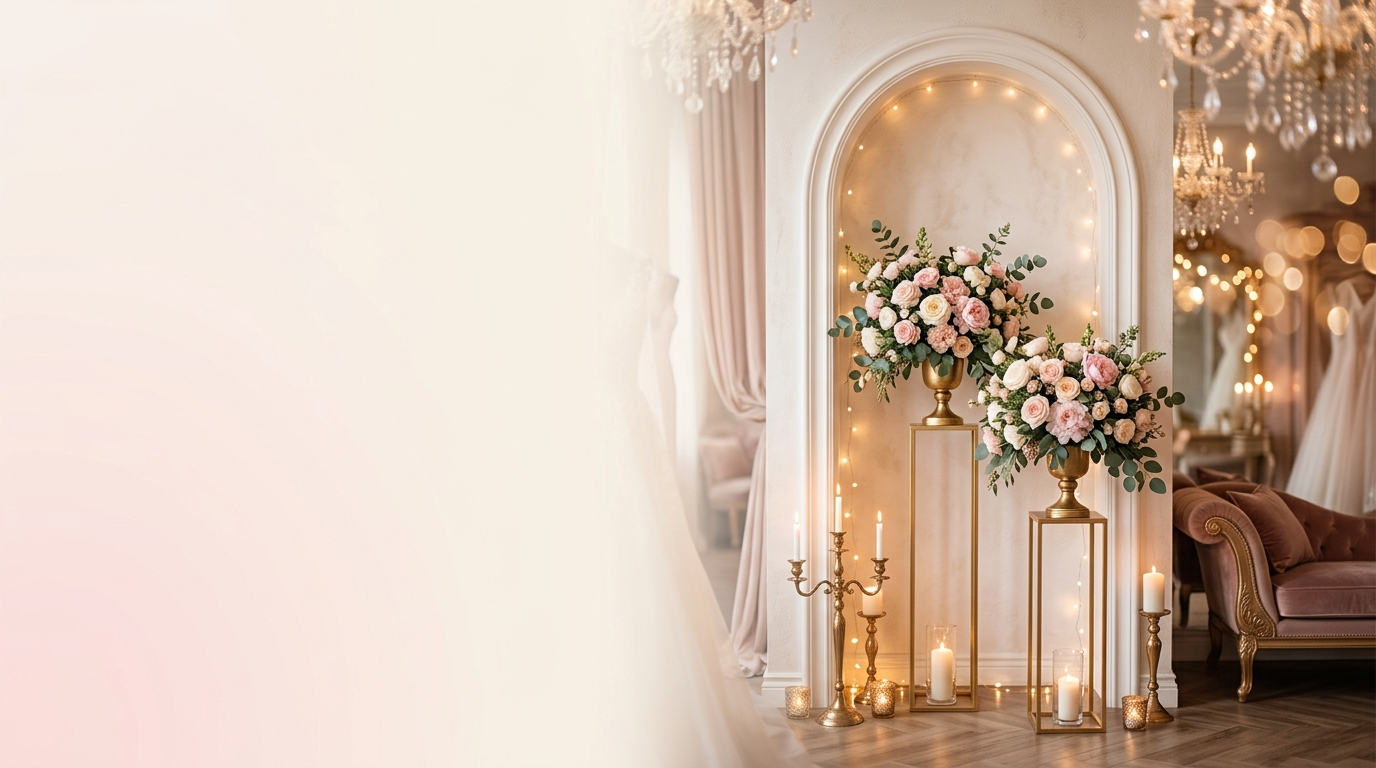
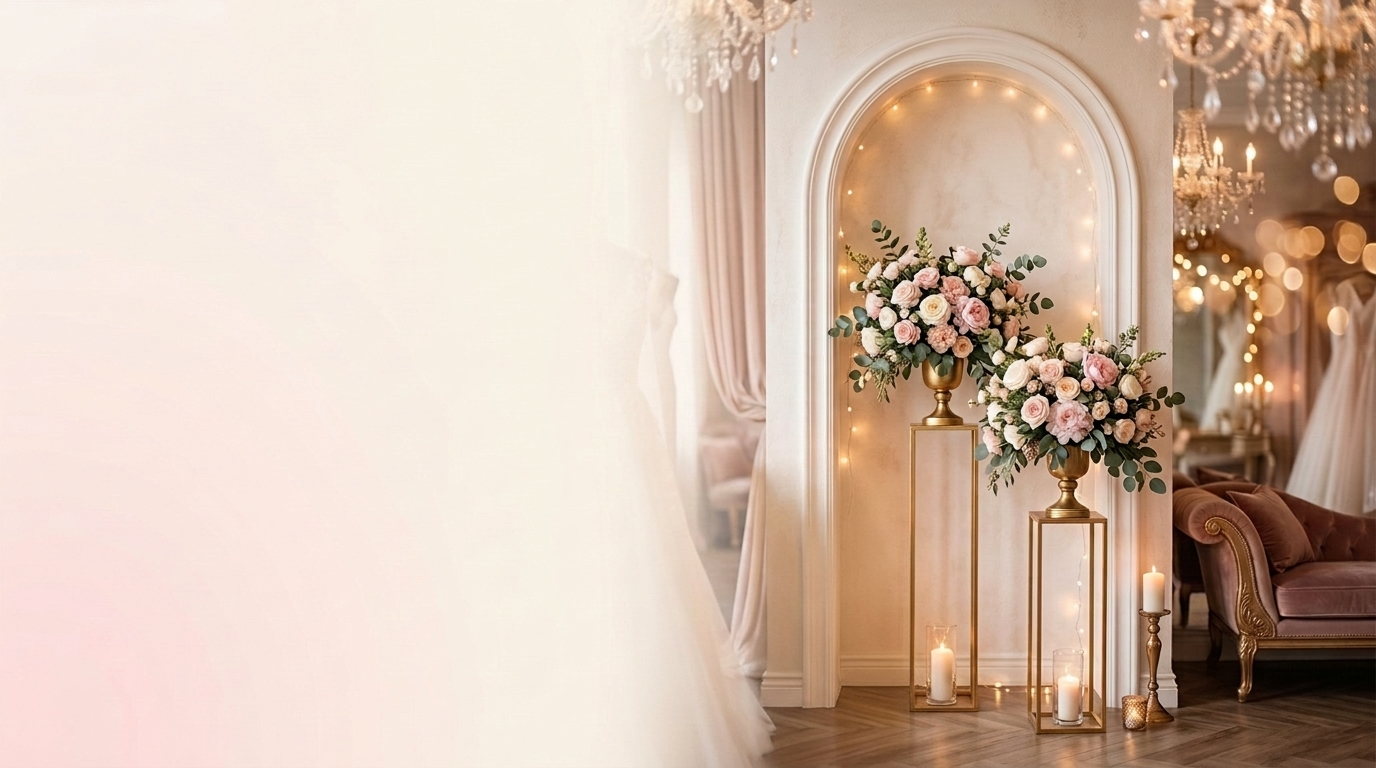
Updated the bridal landing page imagery and styling to better frame the hero cutout and gown model

diff --git a/src/styles/luxe-bridal.css b/src/styles/luxe-bridal.css
@@ -402,7 +402,7 @@ body {
   display: flex;
   flex-direction: column;
   justify-content: center;
-  max-width: 520px;
+  max-width: 490px;
   width: 50%;
   z-index: 3;
 }
@@ -500,20 +500,20 @@ body {
   transform: translateY(-1px);
 }
 
-/* Pop-Out Bride Cutout - Extends above hero section and pops out prominently over the header */
+/* Pop-Out Bride Cutout - 70% body visible starting from top, firmly grounded at bottom */
 .hero-popout-wrapper {
   position: absolute;
-  right: max(60px, calc((100% - 1200px) / 2 + 165px));
+  right: max(40px, calc((100% - 1200px) / 2 + 100px));
   top: -48px;
   bottom: 0;
-  width: 480px;
-  max-width: 480px;
+  width: 550px;
+  max-width: 550px;
   height: calc(100% + 48px);
   display: flex;
   justify-content: center;
-  align-items: flex-end;
+  align-items: flex-start;
   pointer-events: none;
-  overflow: visible;
+  overflow: hidden;
 }
 
 /* Layer 1: Base bride model permanently behind header (z-index 90), rendering body & dress cleanly */
@@ -529,16 +529,18 @@ body {
   transform: translate3d(0, var(--head-y, 0px), 0);
   transition: opacity 0.08s ease-out, filter 0.08s ease-out, transform 0.08s ease-out;
   will-change: opacity, filter, transform;
-  mask-image: linear-gradient(to bottom, #000 0%, #000 80px, rgba(0, 0, 0, 0.4) 120px, transparent 160px);
-  -webkit-mask-image: linear-gradient(to bottom, #000 0%, #000 80px, rgba(0, 0, 0, 0.4) 120px, transparent 160px);
+  mask-image: linear-gradient(to bottom, #000 0%, #000 110px, rgba(0, 0, 0, 0.4) 160px, transparent 220px);
+  -webkit-mask-image: linear-gradient(to bottom, #000 0%, #000 110px, rgba(0, 0, 0, 0.4) 160px, transparent 220px);
 }
 
 .hero-popout-model {
   width: auto;
   height: 100%;
-  max-height: 650px;
+  max-height: none;
   object-fit: contain;
-  object-position: bottom center;
+  object-position: top center;
+  transform: scale(1.45);
+  transform-origin: top center;
   display: block;
 }
 
@@ -2449,8 +2451,8 @@ body {
 
 @media (max-width: 1100px) {
   .hero-popout-wrapper {
-    right: 130px;
-    width: 400px;
+    right: 40px;
+    width: 500px;
   }
   .luxe-nav-menu {
     gap: 14px;
@@ -2534,11 +2536,16 @@ body {
     height: 440px;
     margin: 0 auto;
     z-index: 10;
+    clip-path: none;
+    mask-image: none;
+    -webkit-mask-image: none;
   }
   .hero-popout-model {
     height: 100%;
+    min-height: auto;
     max-height: 440px;
     margin: 0 auto;
+    object-position: center;
   }
   .featured-cards-container {
     grid-template-columns: repeat(2, 1fr);
